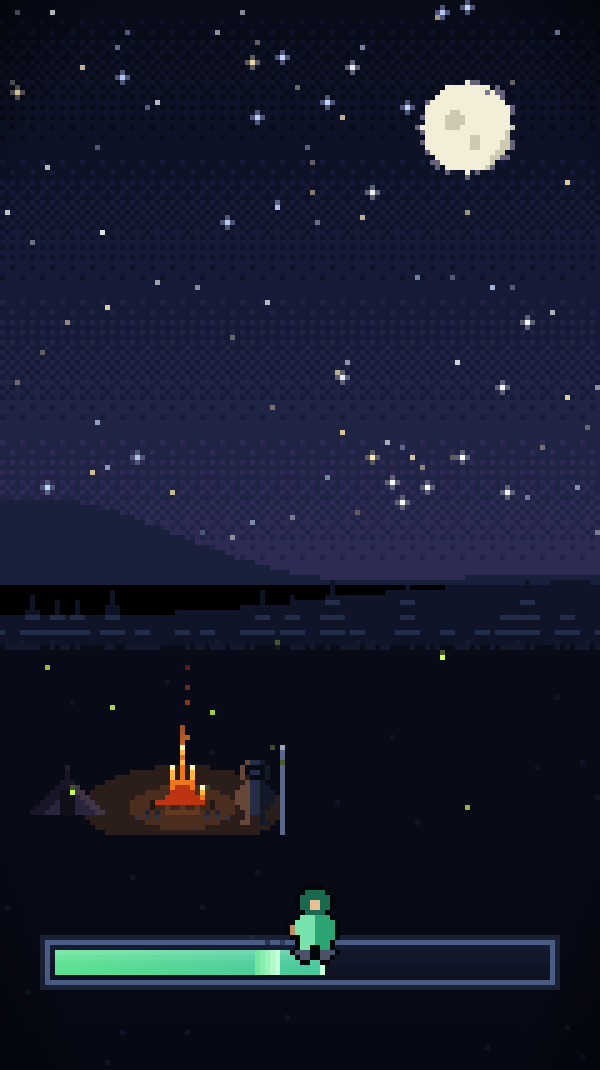
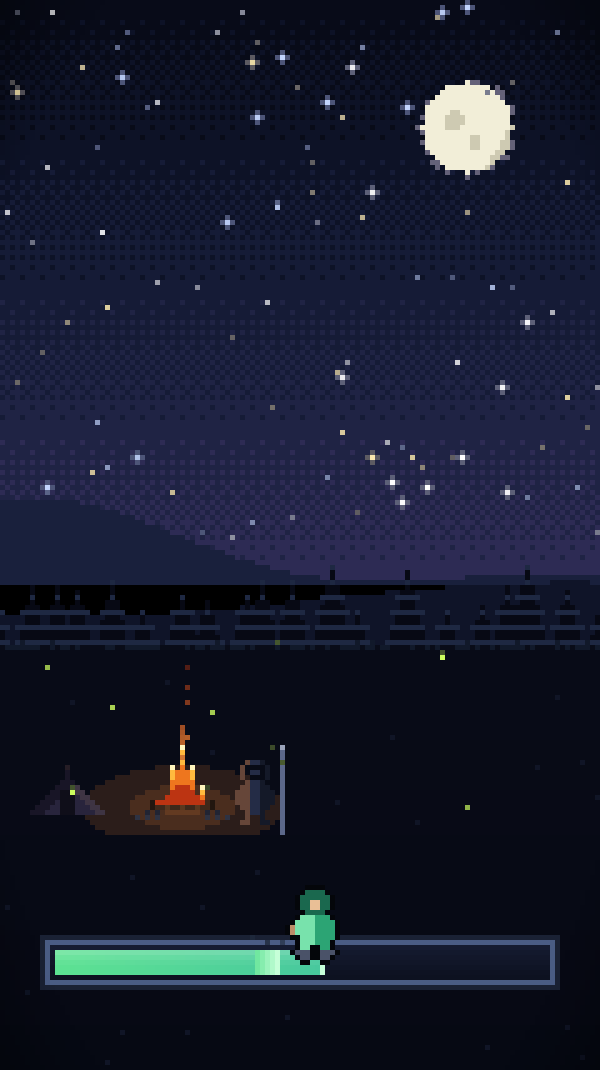
docs: smoke-тест и снимок кадра из движка

Changed region(s): [[0.39, 0.5243, 1.0, 0.6168], [0.0, 0.5551, 0.36, 0.6168]]

diff --git a/client/README.md b/client/README.md
@@ -76,3 +76,19 @@ gdlint client/scripts client/ui               # линт GDScript
 python3 tools/preview_boot.py                 # превью загрузочного экрана в PNG
 python3 tools/make_assets.py                  # логотип и иконка
 ```
+
+## Проверка сцены без телефона
+
+`.github/ci/smoke_test.sh` прогоняет проект headless (`--check-only` по скриптам,
+загрузка сцены на 150 кадров) и падает на любом `SCRIPT ERROR`/`Parse Error` —
+это ловит ошибки, которые не видны `gdparse`/`gdlint` (например, переопределение
+служебного `Object._get` или невыводимый тип).
+
+На 45-м кадре сцена сохраняет себя в `client/boot_capture.png`, CI кладёт кадр в
+`ci-logs/boot_capture.png` — по нему видно, что реально рисует движок:
+
+```bash
+BOOT_CAPTURE=1 godot --headless --path client --fixed-fps 30 --quit-after 150
+```
+
+Локальный запуск того же теста: `bash .github/ci/smoke_test.sh $(which godot)`.
